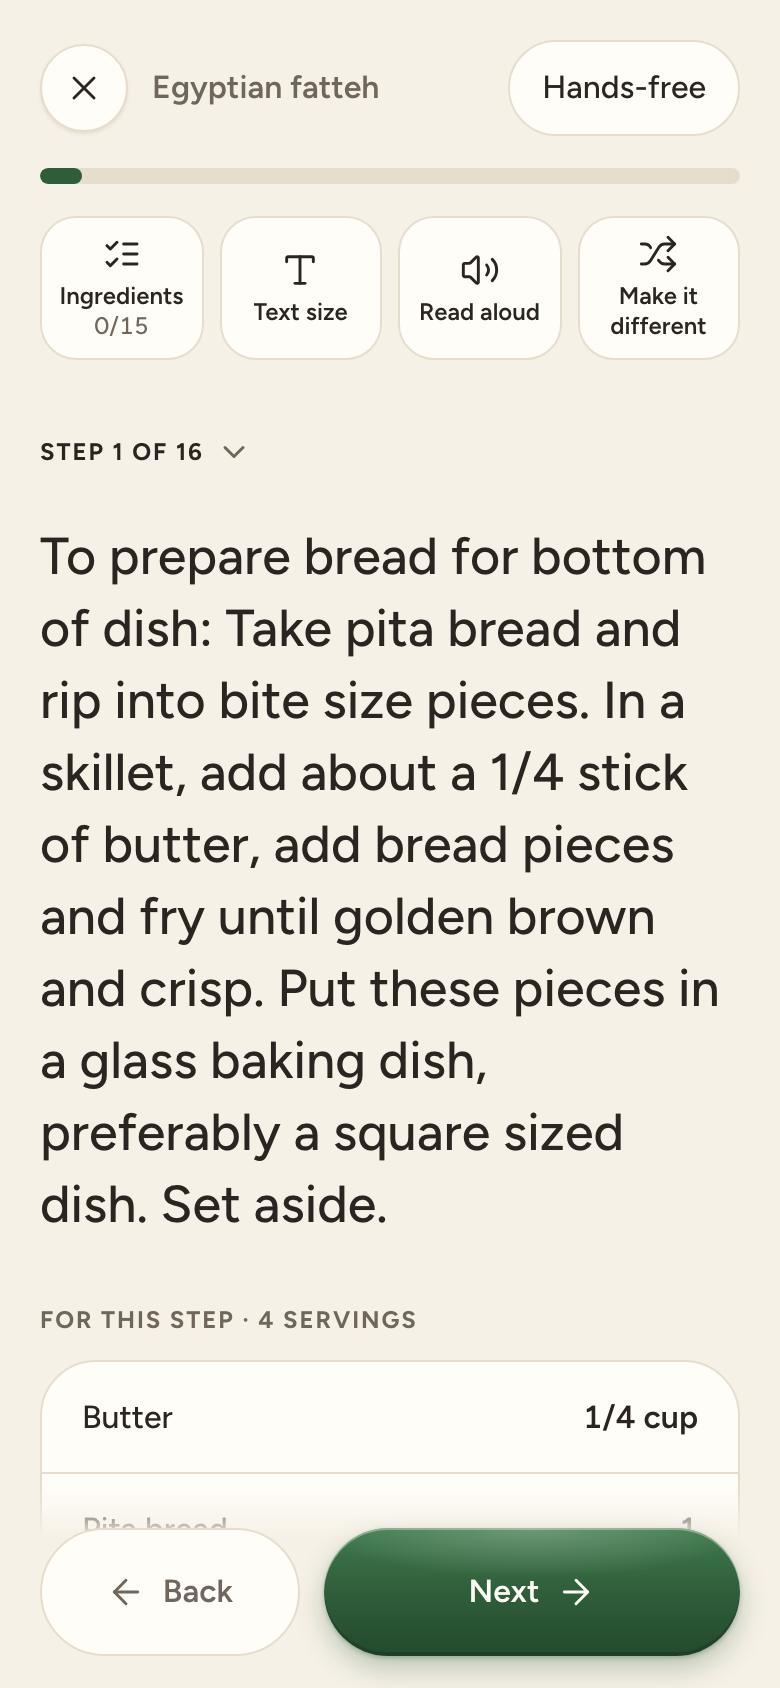
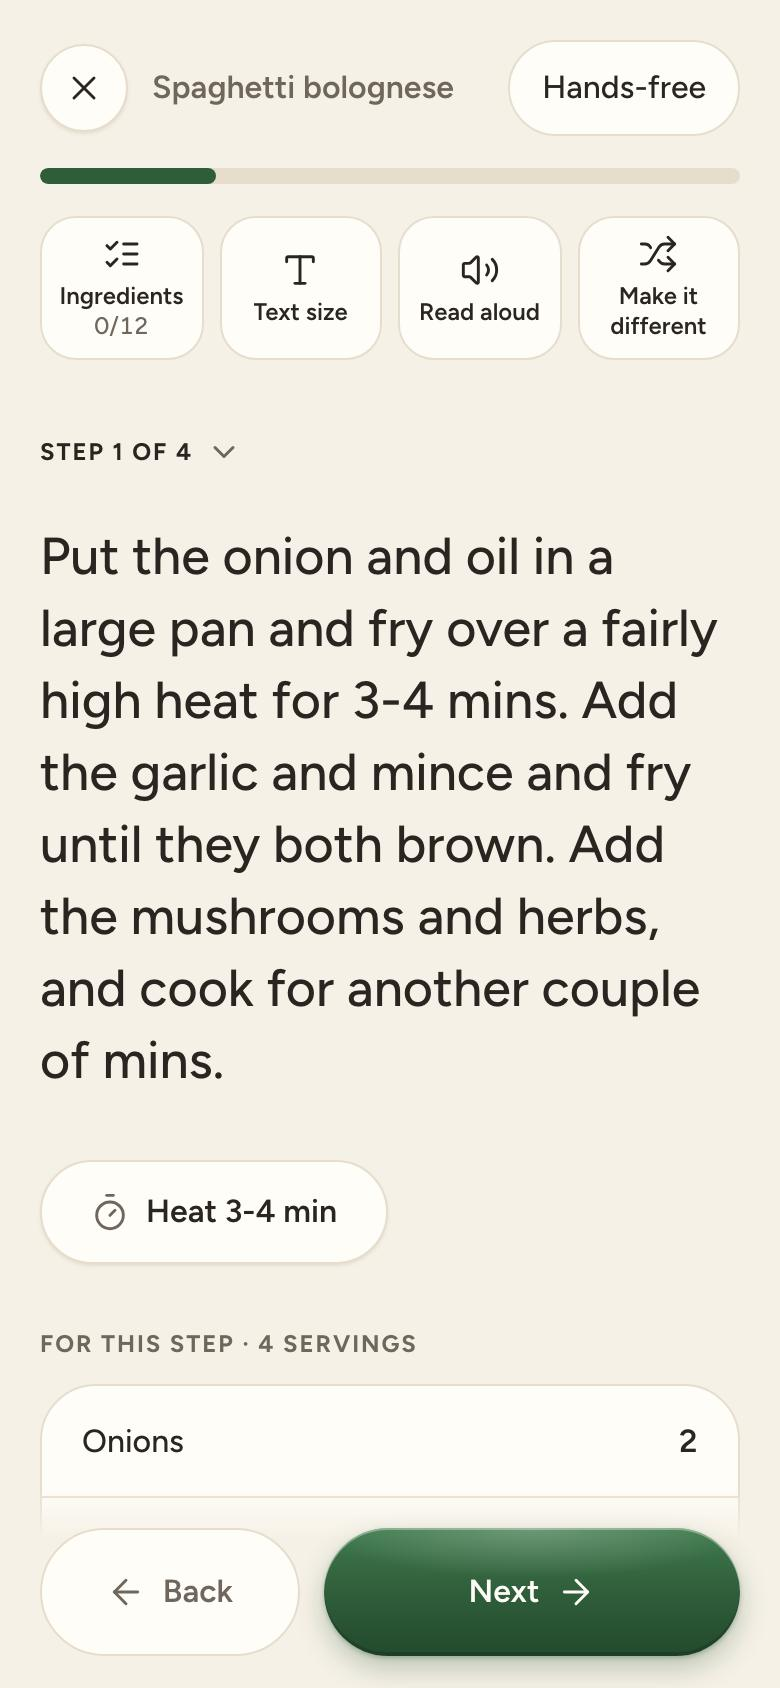
Website: crowd-pleasing, well-lit recipe photos (#12)
* Website: crowd-pleasing, well-lit recipe photos

The hero now shows spaghetti bolognese, a bright and instantly recognizable
dinner, instead of Irish stew. Every screenshot with a recipe photo was
retaken from a curated week of bright catalog dinners (chicken fried rice,
sweet and sour chicken, margherita pizza, carbonara, enchilada casserole,
bolognese, baked chicken tacos) and a bright Pro day (pancakes, tomato soup,
mango smoothie). Three blog photos that failed the same standard (raw
potatoes, shopping bags on black, a kitten) are replaced with real Forka
screenshots. TheMealDB is credited where its photos appear.

* Website images: review fixes

A fresh-context review flagged Sunday's slow-cooker tacos (4.7 hr) and a pale
pizza in the hero week and grocery shots, and a bolognese photo on the blog's
hidden-sugar card. Sunday is now sticky chicken (50 min), Wednesday teriyaki
chicken casserole, and the card shows the mango smoothie recipe.

---------

diff --git a/website/blog.html b/website/blog.html
@@ -281,7 +281,7 @@
 
       <article class="blog-card">
         <div class="blog-card-img">
-          <img src="https://images.unsplash.com/photo-1518977676601-b53f82aba655?w=600&h=400&fit=crop" alt="Nutrition labels">
+          <img src="images/blog-recipe.jpg" width="600" height="400" loading="lazy" alt="A recipe in Forka: a creamy mango smoothie, about 10 minutes, with its ingredients.">
         </div>
         <div class="blog-card-body">
           <span class="blog-card-tag">Nutrition</span>
@@ -296,7 +296,7 @@
 
       <article class="blog-card">
         <div class="blog-card-img">
-          <img src="https://images.unsplash.com/photo-1607082348824-0a96f2a4b9da?w=600&h=400&fit=crop" alt="Grocery shopping">
+          <img src="images/blog-groceries.jpg" width="600" height="400" loading="lazy" alt="Forka's grocery list for the week, sorted by aisle.">
         </div>
         <div class="blog-card-body">
           <span class="blog-card-tag">Tips</span>
@@ -326,7 +326,7 @@
 
       <article class="blog-card">
         <div class="blog-card-img">
-          <img src="https://images.unsplash.com/photo-1555685812-4b943f1cb0eb?w=600&h=400&fit=crop" alt="Picky eater">
+          <img src="images/blog-checkin.jpg" width="600" height="400" loading="lazy" alt="Forka's after-dinner check-in, asking how each person liked it.">
         </div>
         <div class="blog-card-body">
           <span class="blog-card-tag">Tips</span>
@@ -375,6 +375,7 @@
         <span class="footer-brand-name">Forka</span>
       </div>
       <p class="footer-brand-desc">Follow us and never miss an update on the latest meal planning tips, tools, and family recipes.</p>
+      <p class="footer-brand-desc">Recipe photos in the app screenshots come from TheMealDB.</p>
       <div class="social-icons">
         
         <a href="https://www.instagram.com/tryforka/" target="_blank" rel="noopener noreferrer" class="social-icon" aria-label="Instagram"><svg viewBox="0 0 24 24"><path d="M12 2.163c3.204 0 3.584.012 4.85.07 3.252.148 4.771 1.691 4.919 4.919.058 1.265.069 1.645.069 4.849 0 3.205-.012 3.584-.069 4.849-.149 3.225-1.664 4.771-4.919 4.919-1.266.058-1.644.07-4.85.07-3.204 0-3.584-.012-4.849-.07-3.26-.149-4.771-1.699-4.919-4.92-.058-1.265-.07-1.644-.07-4.849 0-3.204.013-3.583.07-4.849.149-3.227 1.664-4.771 4.919-4.919 1.266-.057 1.645-.069 4.849-.069zM12 0C8.741 0 8.333.014 7.053.072 2.695.272.273 2.69.073 7.052.014 8.333 0 8.741 0 12c0 3.259.014 3.668.072 4.948.2 4.358 2.618 6.78 6.98 6.98C8.333 23.986 8.741 24 12 24c3.259 0 3.668-.014 4.948-.072 4.354-.2 6.782-2.618 6.979-6.98.059-1.28.073-1.689.073-4.948 0-3.259-.014-3.667-.072-4.947-.196-4.354-2.617-6.78-6.979-6.98C15.668.014 15.259 0 12 0zm0 5.838a6.162 6.162 0 100 12.324 6.162 6.162 0 000-12.324zM12 16a4 4 0 110-8 4 4 0 010 8zm6.406-11.845a1.44 1.44 0 100 2.881 1.44 1.44 0 000-2.881z"></path></svg></a>

diff --git a/website/index.html b/website/index.html
@@ -172,6 +172,7 @@
 <footer class="site-footer">
   <div class="wrap">
     <p>&copy; 2026 Forka LLC</p>
+    <p class="fine">Recipe photos in the app screenshots come from TheMealDB.</p>
     <nav aria-label="Footer">
       <a href="features.html">Features</a>
       <a href="pricing.html" data-when-billing="on" hidden>Pricing</a>

diff --git a/website/features.html b/website/features.html
@@ -143,6 +143,7 @@
 <footer class="site-footer">
   <div class="wrap">
     <p>&copy; 2026 Forka LLC</p>
+    <p class="fine">Recipe photos in the app screenshots come from TheMealDB.</p>
     <nav aria-label="Footer">
       <a href="index.html">Home</a>
       <a href="pricing.html" data-when-billing="on" hidden>Pricing</a>
